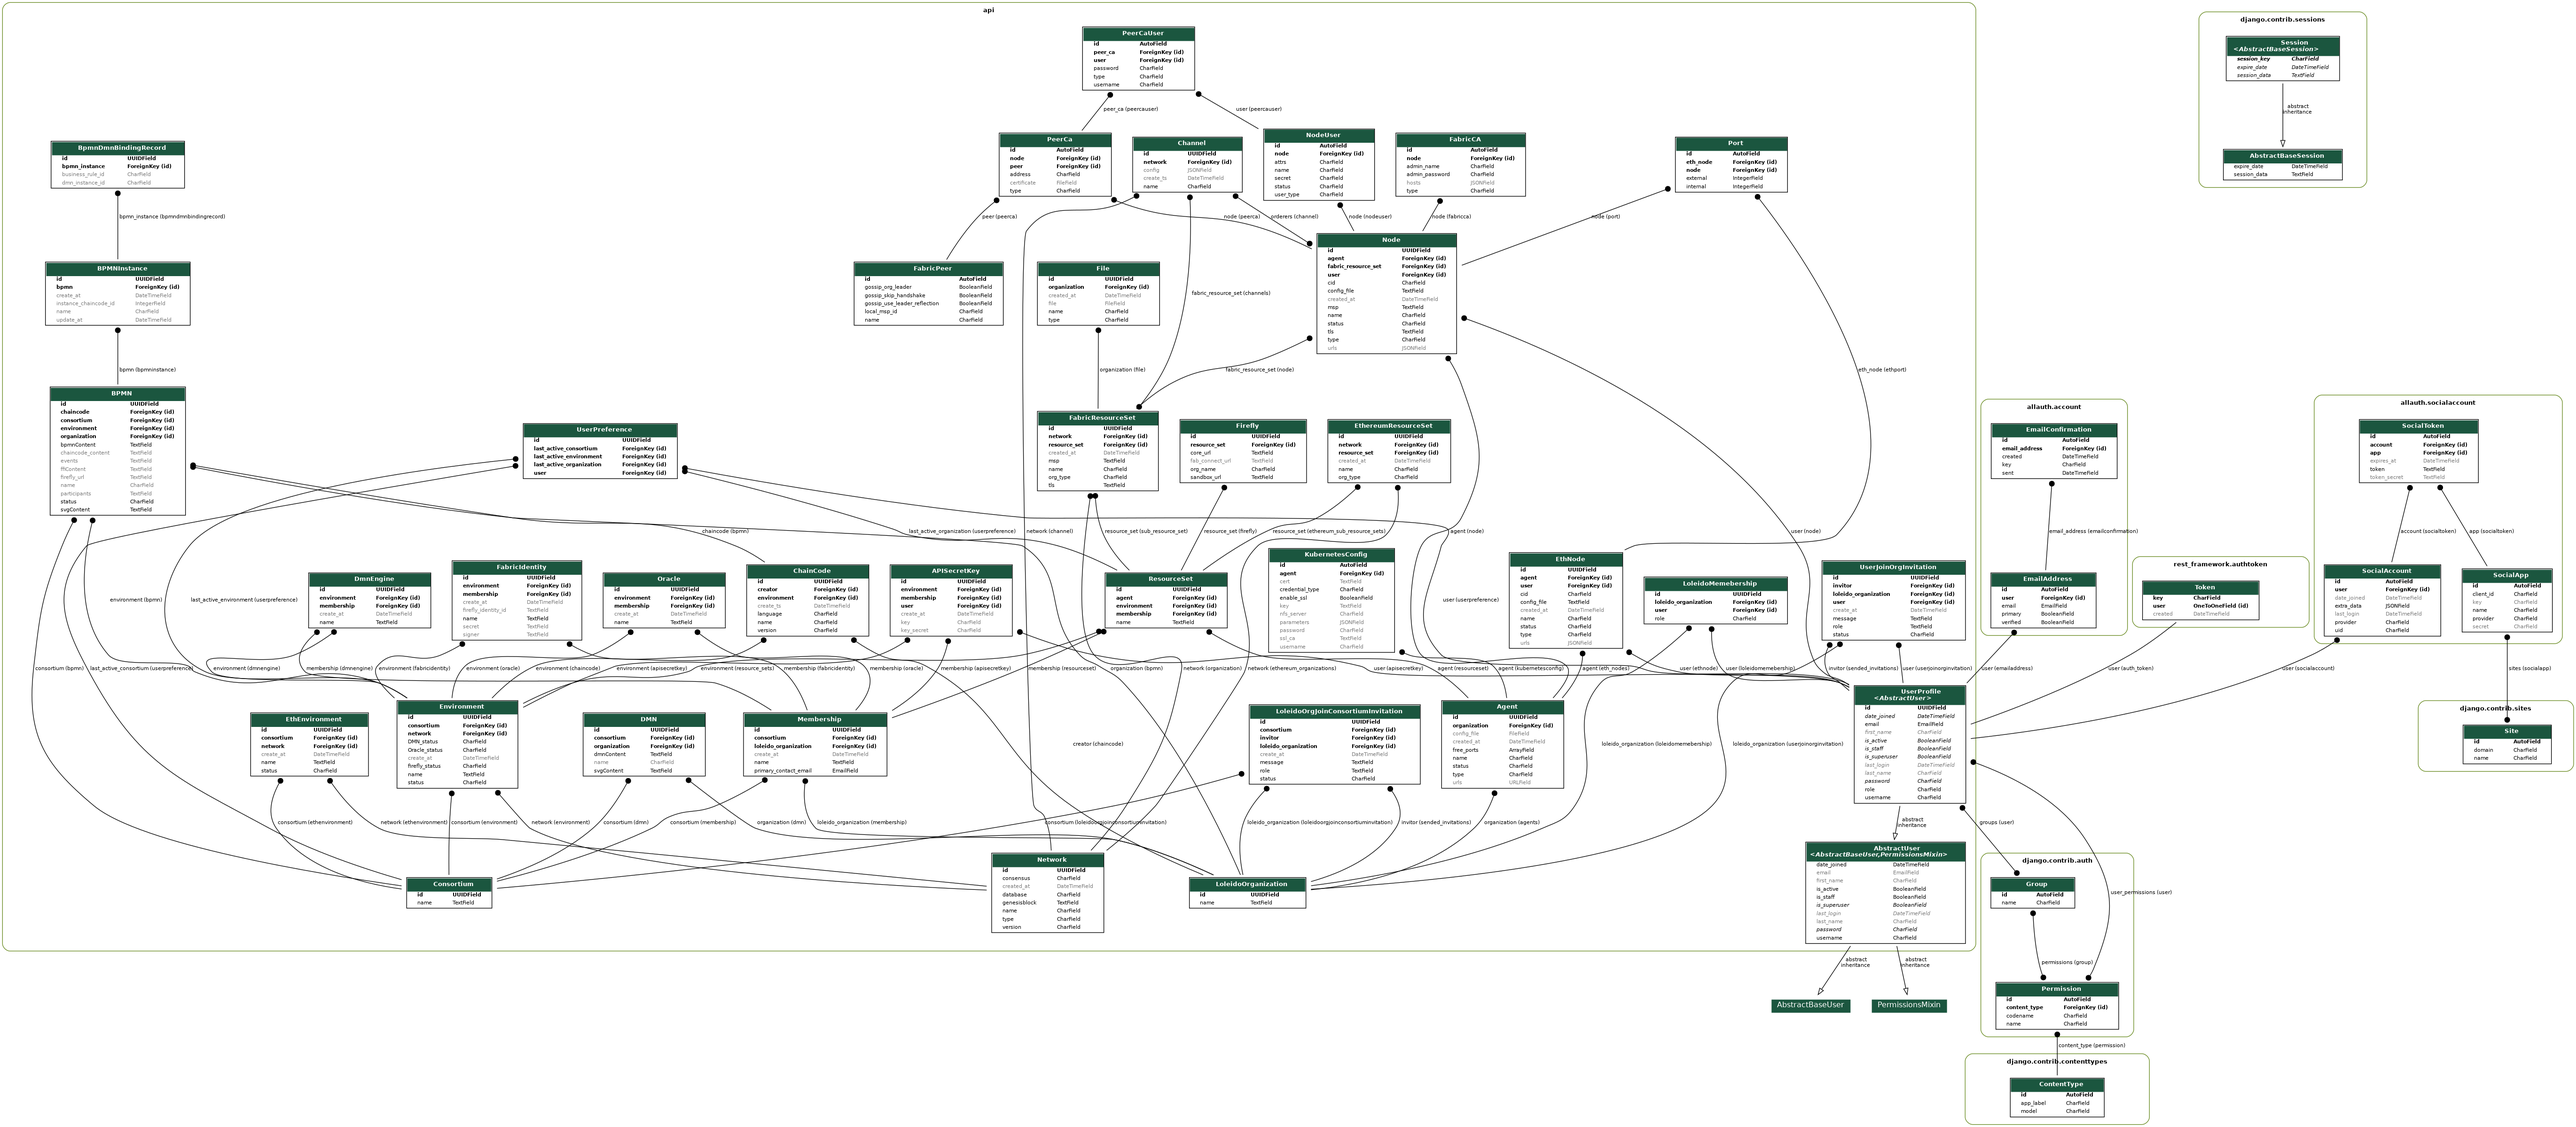
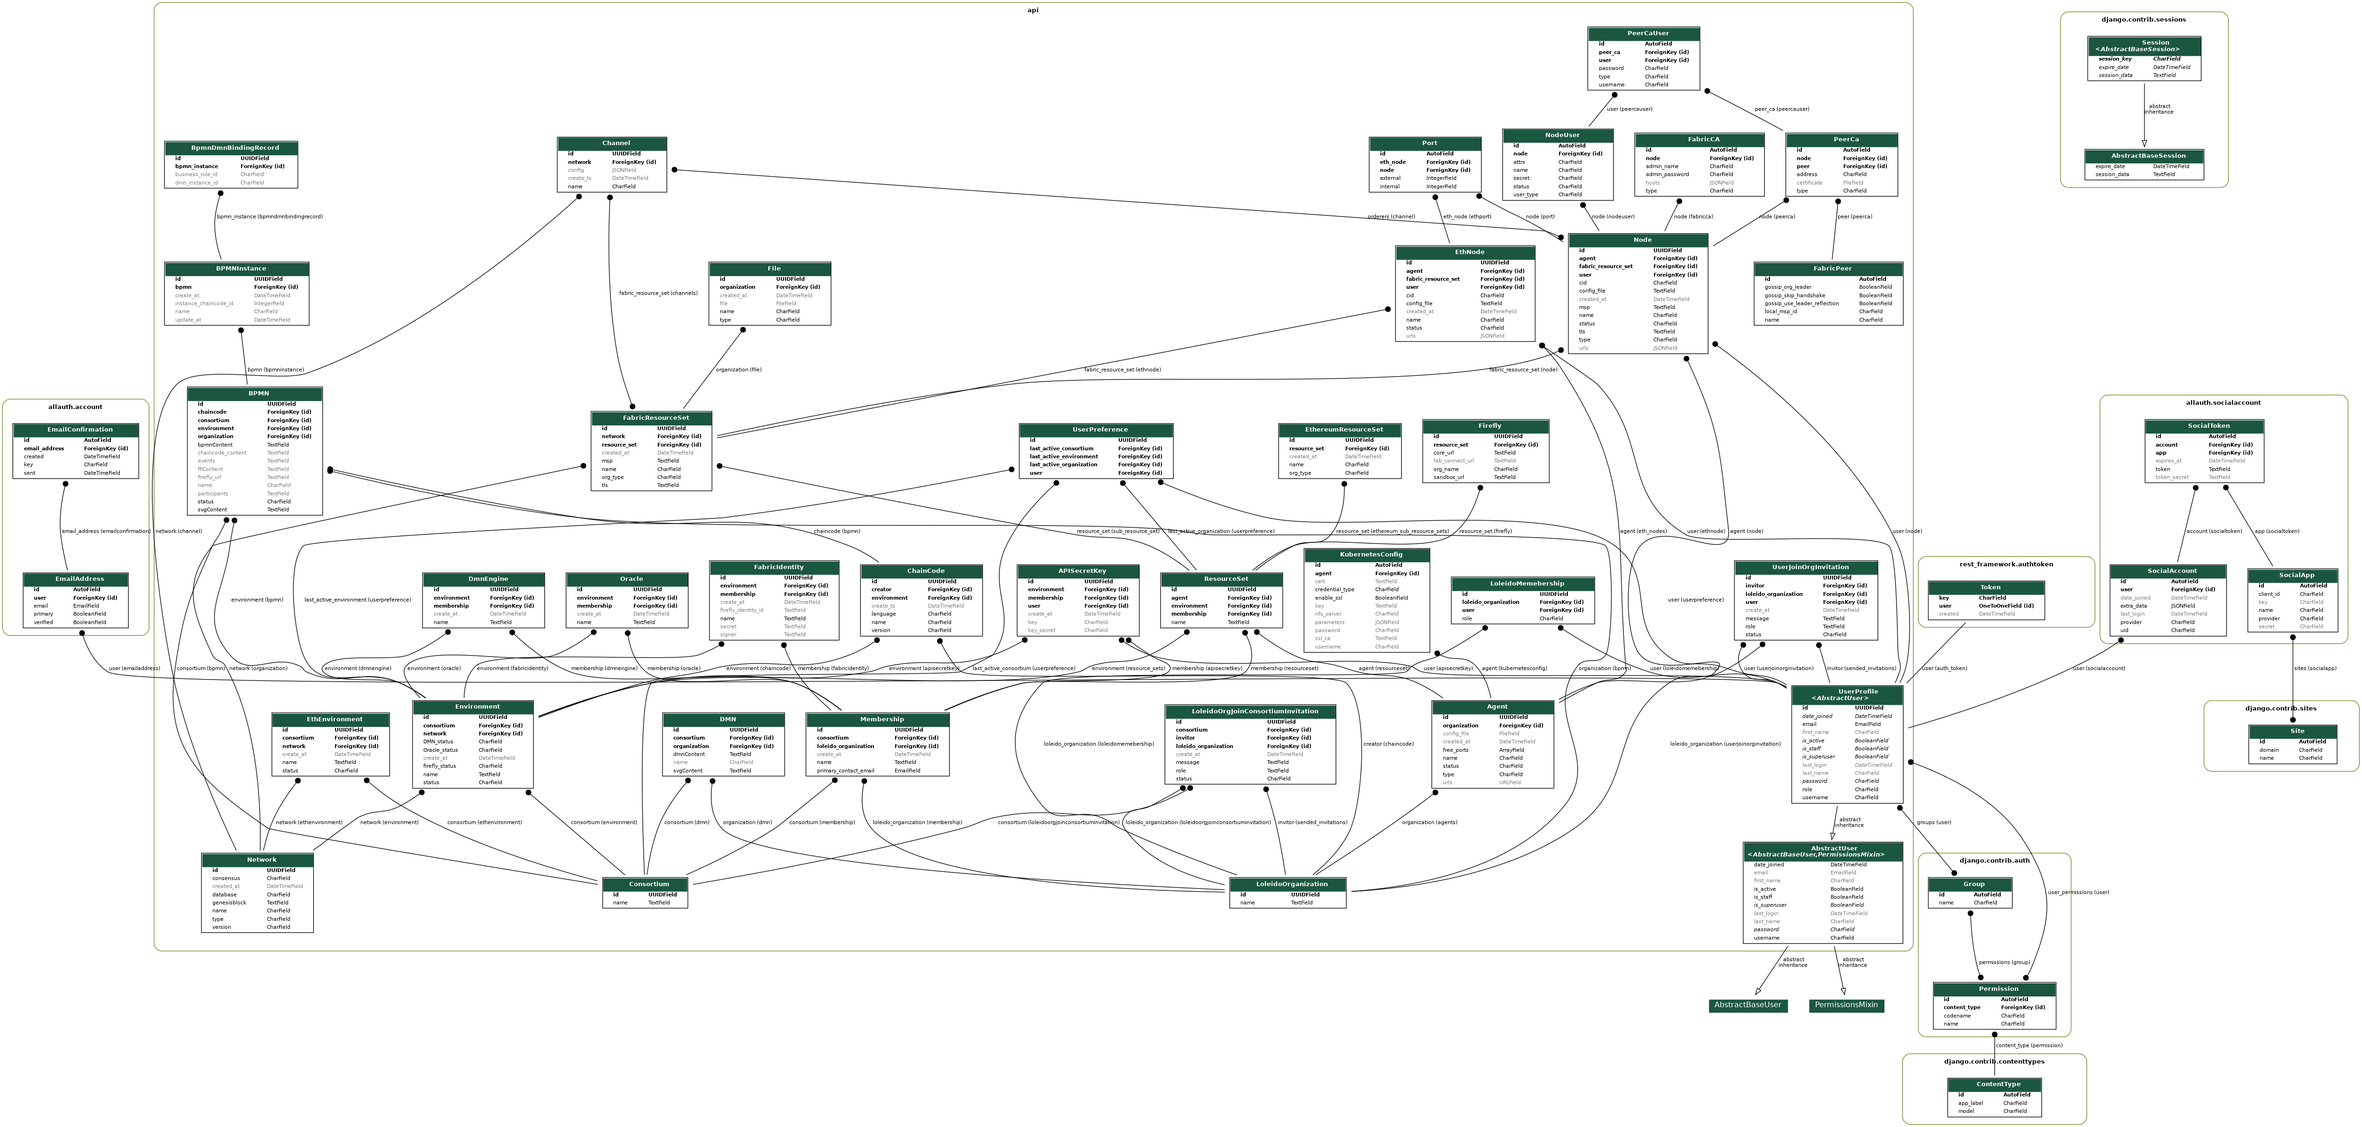
feat

diff --git a/src/front/src/views/Layout/MainMenu/index.tsx b/src/front/src/views/Layout/MainMenu/index.tsx
@@ -139,7 +139,8 @@ const AddEnvModal: React.FC<{
   isModalOpen?: boolean,
   setIsModalOpen: React.Dispatch<React.SetStateAction<boolean>>,
   setSync: () => void,
-}> = ({ isModalOpen = false, setIsModalOpen, setSync }) => {
+  defaultEnvType?: string,
+}> = ({ isModalOpen = false, setIsModalOpen, setSync, defaultEnvType = 'Fabric' }) => {
   type FieldType = {
     envName?: string;
     envType?: string;
@@ -148,10 +149,13 @@ const AddEnvModal: React.FC<{
   const dispatch = useAppDispatch();
   const currentConsortiumId = useAppSelector(selectConsortium).currentConsortiumId;
 
-
   const onFinish = async (values: FieldType) => {
     const Env = await createEnvironment(currentConsortiumId, values.envName);
-    dispatch(activateEnv({ currentEnvId: Env.id, currentEnvName: Env.name }))
+    dispatch(activateEnv({
+      currentEnvId: Env.id,
+      currentEnvName: Env.name,
+      currentEnvType: values.envType || 'Fabric'
+    }));
     setIsModalOpen(false);
     setSync();
   }
@@ -177,7 +181,7 @@ const AddEnvModal: React.FC<{
         onFinish={onFinish}
         autoComplete="off"
         preserve={false}
-        initialValues={{ envName: 'Environment' }}
+        initialValues={{ envName: 'Environment', envType: defaultEnvType }}
       >
         <Form.Item<FieldType>
           label="Environment Name"
@@ -196,7 +200,6 @@ const AddEnvModal: React.FC<{
           ]}
         >
           <Select
-            defaultValue="Fabric"
             options={[
               { value: 'Ethereum', label: 'Ethereum' },
               { value: 'Fabric', label: 'Fabric' },
@@ -365,8 +368,7 @@ const MainMenu: React.FC = () => {
             >
               Firefly
             </Menu.Item></>)}
-        </>)}
-      {currentEnvType === 'Ethereum' && (<><Menu.Item
+            {currentEnvType === 'Ethereum' && (<><Menu.Item
         key={`/orgs/${currentOrgId}/consortia/${currentConsortiumId}/envs/${currentEnvId}/envdashboard`}
       >
         EnvDashboard
@@ -386,6 +388,8 @@ const MainMenu: React.FC = () => {
           </Menu.Item>
         </SubMenu></>
       )}
+        </>)}
+      
     </SubMenu>
 
   );

diff --git a/src/front/src/views/Environment/Dashboard/Overview/index.tsx b/src/front/src/views/Environment/Dashboard/Overview/index.tsx
@@ -111,20 +111,22 @@ const Overview: React.FC = () => {
     // Eth应该就简单的两个init和start流程
     // Init
     setSetUpEthereumNetworkLoading(true)
-    await InitEthEnv(currentEnvId)  // 创建compose文件
+    // setSync()
+    await InitEthEnv(currentEnvId)  
     setSync()
 
     await new Promise((resolve, reject) => {
       setIsJoinModelOpen(true)
       setupCallBackRef.current = resolve
     })
-    setSync()
+    // setSync()
 
-    await StartEthEnv(currentEnvId);  // run容器
-    setSync()
+    // await StartEthEnv(currentEnvId);  // run容器
+    // setSync()
 
-    // need to change
-    await ActivateEnv(currentEnvId, currentOrgId) // 
+    // // need to change
+    // await ActivateEnv(currentEnvId, currentOrgId) // 
+    // setSync()
     setSetupFabricNetWorkLoading(false)
     setSync()
 
@@ -177,7 +179,7 @@ const Overview: React.FC = () => {
                   onClick={() => {
                     if (currentEnvType === "Fabric") {
                       handleSetUpFabricNetwork();
-                    } else if (currentEnvType === "Ethereum") {
+                    } else  {
                       handleSetUpEthereumNetwork();
                     }
                   }}

diff --git a/src/front/src/views/Environment/Dashboard/Overview/components.tsx b/src/front/src/views/Environment/Dashboard/Overview/components.tsx
@@ -81,21 +81,17 @@ export const NaiveEthereumStepBar = (props) => {
     title: string;
     description?: string;
   }> = [
+    // {
+    //   title: "System Created",
+    //   description: "DB Record",
+    // },
       {
-        title: "Created",
-        description: "DB Record",
+        title: "System Node Created",
+        description: "System go-client node",
       },
       {
-        title: "Initialized",
-        description: "CA & Orderer Node",
-      },
-      {
-        title: "Started",
-        description: "Peer Nodes",
-      },
-      {
-        title: "Active",
-        description: "Channel been Setup",
+        title: "Membership Node Initialized",
+        description: "Membership go-client node",
       }
     ];
 

diff --git a/src/front/src/redux/slices/envSlice.ts b/src/front/src/redux/slices/envSlice.ts
@@ -25,9 +25,10 @@ export const envSlice = createSlice({
             {
                 currentEnvId: string,
                 currentEnvName: string,
+                currentEnvType?: string,
             }>) => {
             return {
-                currentEnvType: "Fabric",
+                currentEnvType: action.payload.currentEnvType || "Fabric",
                 currentEnvId: action.payload.currentEnvId,
                 currentEnvName: action.payload.currentEnvName,
             }

diff --git a/src/backend/api/routes/resource_set/views.py b/src/backend/api/routes/resource_set/views.py
@@ -166,11 +166,12 @@ class EthereumResourceSetViewSet(viewsets.ViewSet):
     def _node_create_agent(self, name, port_map):
         try:
             data = {
-                "node_name": name,
+                "name": name,
                 "port_map": port_map,
             }
             response = post(f"""http://{CURRENT_IP}:7001/api/v1/ethnode""", data=data)
-            if response.status_code == 200:
+            print(response.status_code)
+            if str(response.status_code).startswith('2'):
                 txt = json.loads(response.text)
                 return txt["res"]
             else:
@@ -202,7 +203,7 @@ class EthereumResourceSetViewSet(viewsets.ViewSet):
         try:
             resource_set_id = request.parser_context["kwargs"].get("resource_set_id")
             resource_set = ResourceSet.objects.get(pk=resource_set_id)
-            ethereum_resource_set = resource_set.sub_resource_set.get()
+            ethereum_resource_set = resource_set.ethereum_sub_resource_sets.get()
             agent = resource_set.agent
             org_name = ethereum_resource_set.name
             node_name = request.data.get("name", None)
@@ -221,7 +222,7 @@ class EthereumResourceSetViewSet(viewsets.ViewSet):
             
             port_map = {
                 a["internal"]: a["external"]
-                for a in Port.objects.filter(node=node)
+                for a in Port.objects.filter(eth_node=node)
                 .values("internal", "external")
                 .all()
             }.__repr__()

diff --git a/src/agent/docker-rest-agent/server.py b/src/agent/docker-rest-agent/server.py
@@ -479,7 +479,7 @@ def create_eth_node():
         try:
             image, _ = client.images.build(
                 path=dockerfile_path,
-                tag=f"{node_name}:latest",
+                tag=f"test:latest",
                 rm=True
             )
         except Exception as e:
@@ -487,6 +487,16 @@ def create_eth_node():
             res = {"code": FAIL_CODE, "data": {}, "msg": f"Failed to build Docker image: {str(e)}"}
             return jsonify({"res": res}), 500    
         
+        # Check if the specified ports are available, otherwise find a random available port
+        def get_port(port):
+            return port if _is_port_available(port) else _find_free_port()
+
+        # Assign ports, checking availability
+        ports = {
+            "8545/tcp": get_port(port_map.get("8545", 8545)),
+            "30303/tcp": get_port(port_map.get("30303", 30303)),
+        }
+
         try:
             container = client.containers.create(
                 image=f"ethereum/client-go:v1.10.1",
@@ -505,10 +515,7 @@ def create_eth_node():
                     "--allow-insecure-unlock",
                 ],
                 name=node_name,
-                ports={
-                    "8545/tcp": port_map.get("8545", 8545),
-                    "30303/tcp": port_map.get("30303", 30303),
-                },
+                ports=ports,
                 network="cello-net",
                 volumes={
                     os.path.abspath(eth_node_home): {

diff --git a/src/backend/api/config.py b/src/backend/api/config.py
@@ -24,7 +24,7 @@ FABRIC_CA_CFG = os.path.join(BASE_PATH, "opt", "node", "ca.yaml.bak")
 
 FABRIC_CHAINCODE_STORE = os.path.join(BASE_PATH, "opt", "chaincode")
 BPMN_CHAINCODE_STORE = os.path.join(BASE_PATH, "opt", "chaincode-go-bpmn")
-CURRENT_IP = "192.168.1.177" if mode == "server" else "127.0.0.1"
+CURRENT_IP = "127.0.0.1" if mode == "server" else "127.0.0.1"
 AGENT_PORT = 7001
 DEFAULT_AGENT = default_agent = {
     "name": "default_agent",

diff --git a/src/backend/api/models.py b/src/backend/api/models.py
@@ -1639,7 +1639,7 @@ class EthNode(models.Model):
         on_delete=models.CASCADE,
     )
     fabric_resource_set = models.ForeignKey(
-        FabricResourceSet,
+        EthereumResourceSet,
         help_text="Organization of node",
         null=True,
         related_name="ethnode",
